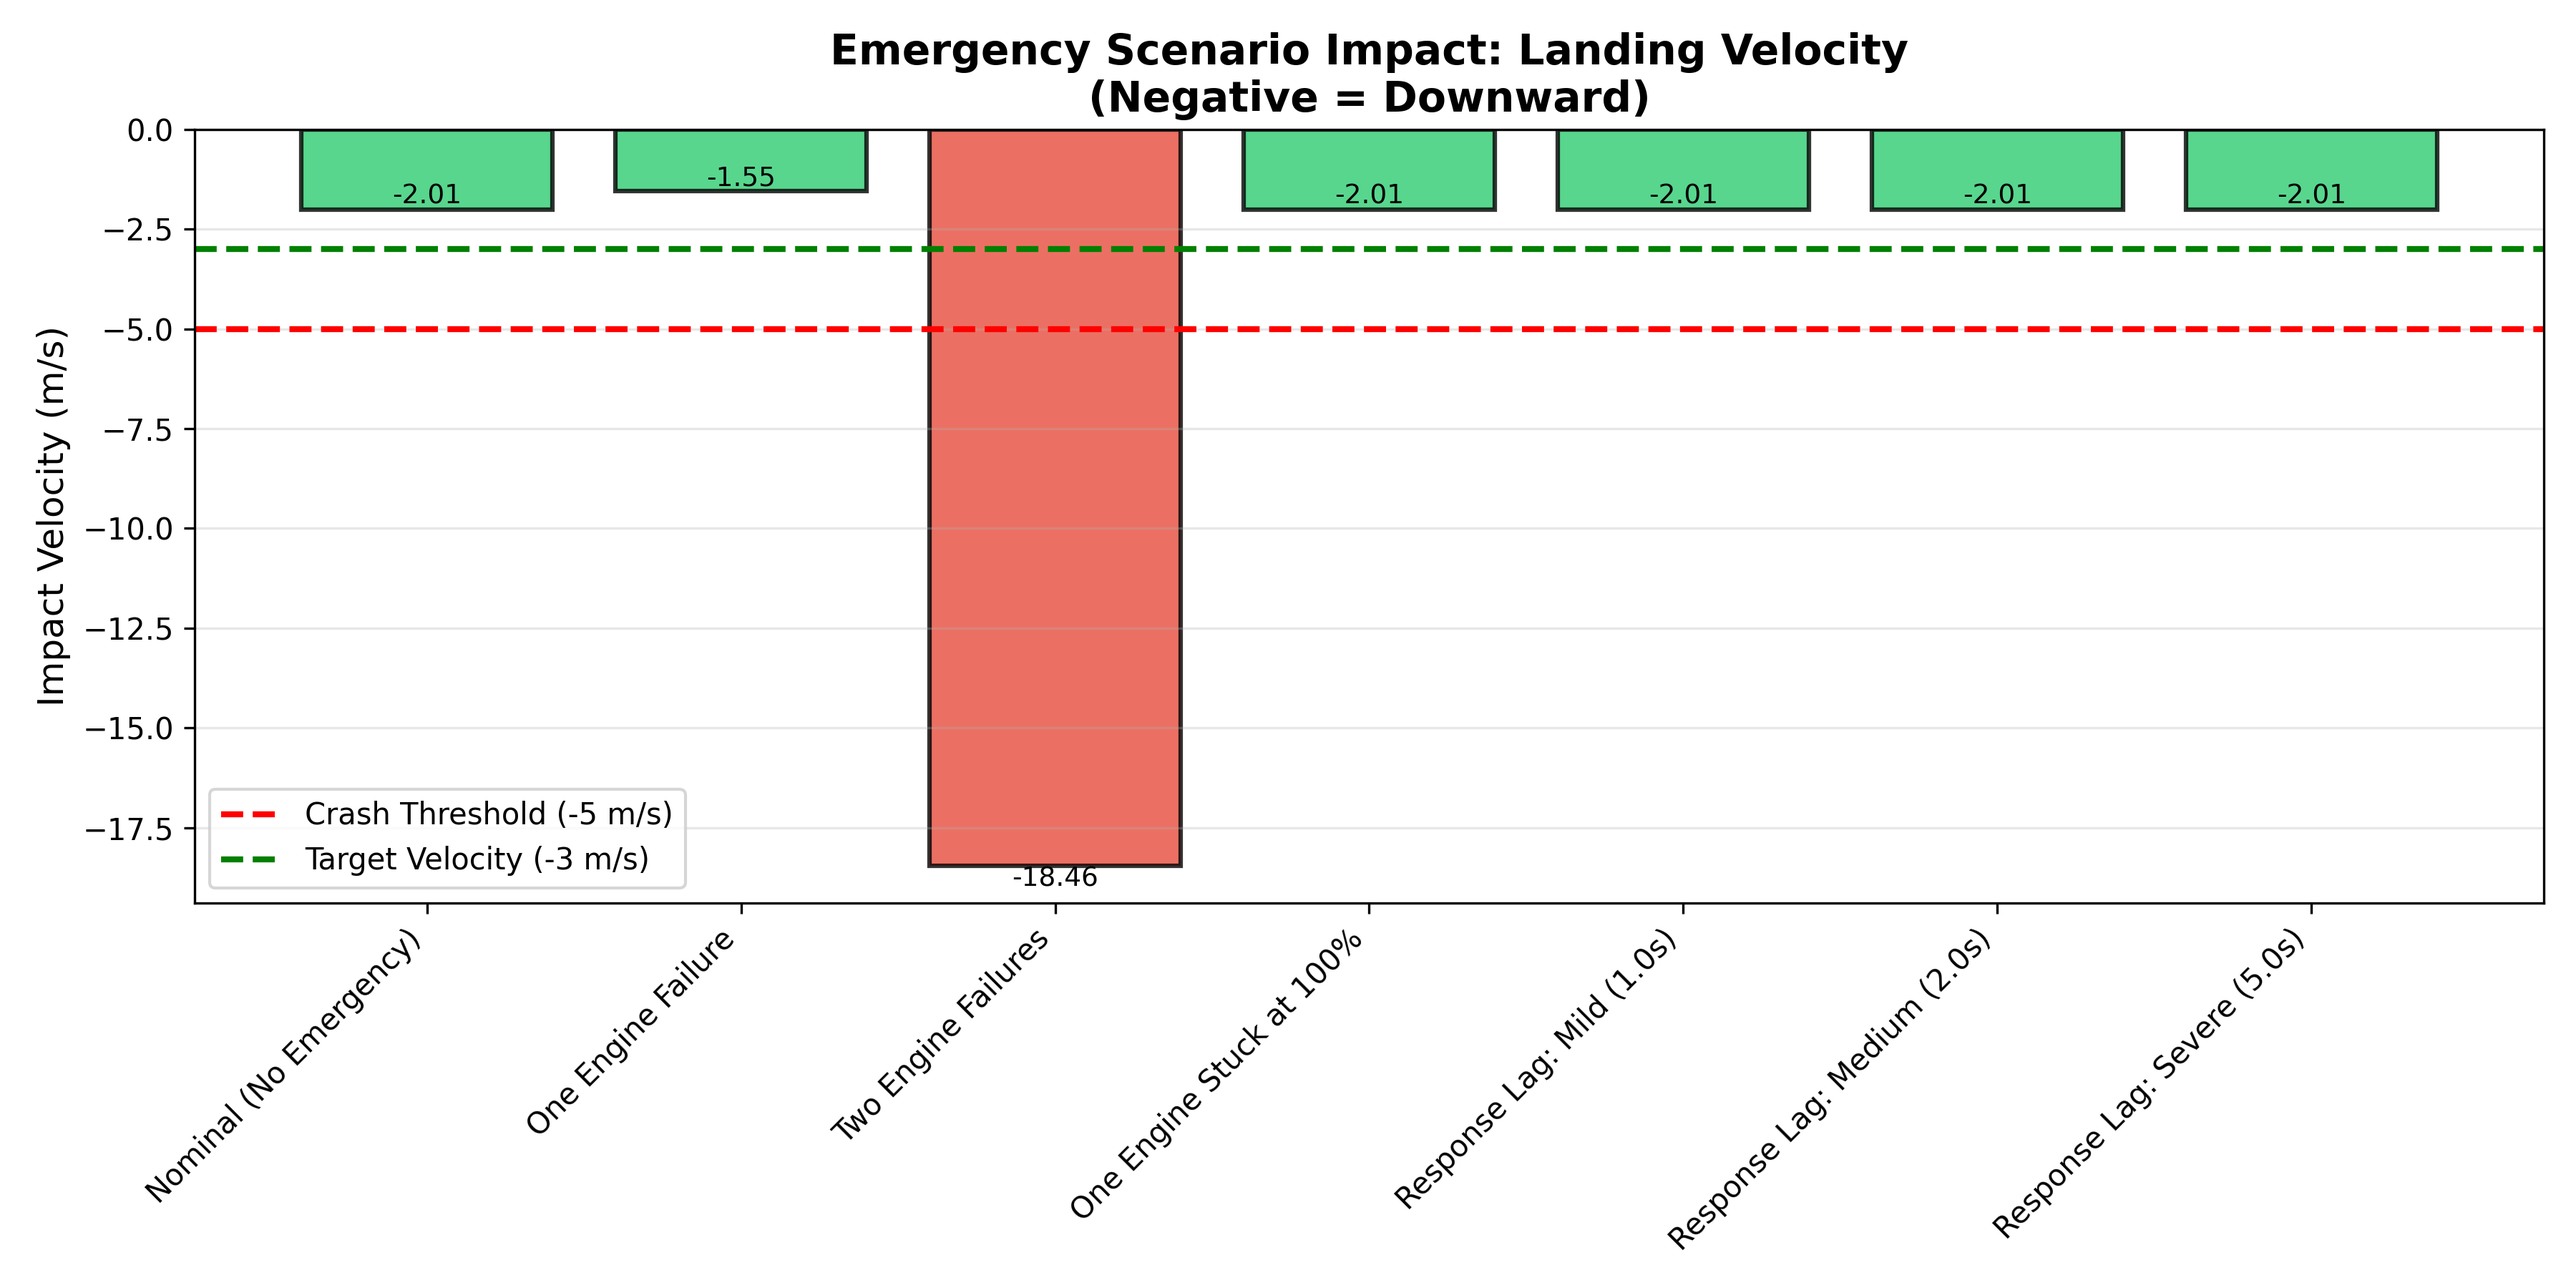
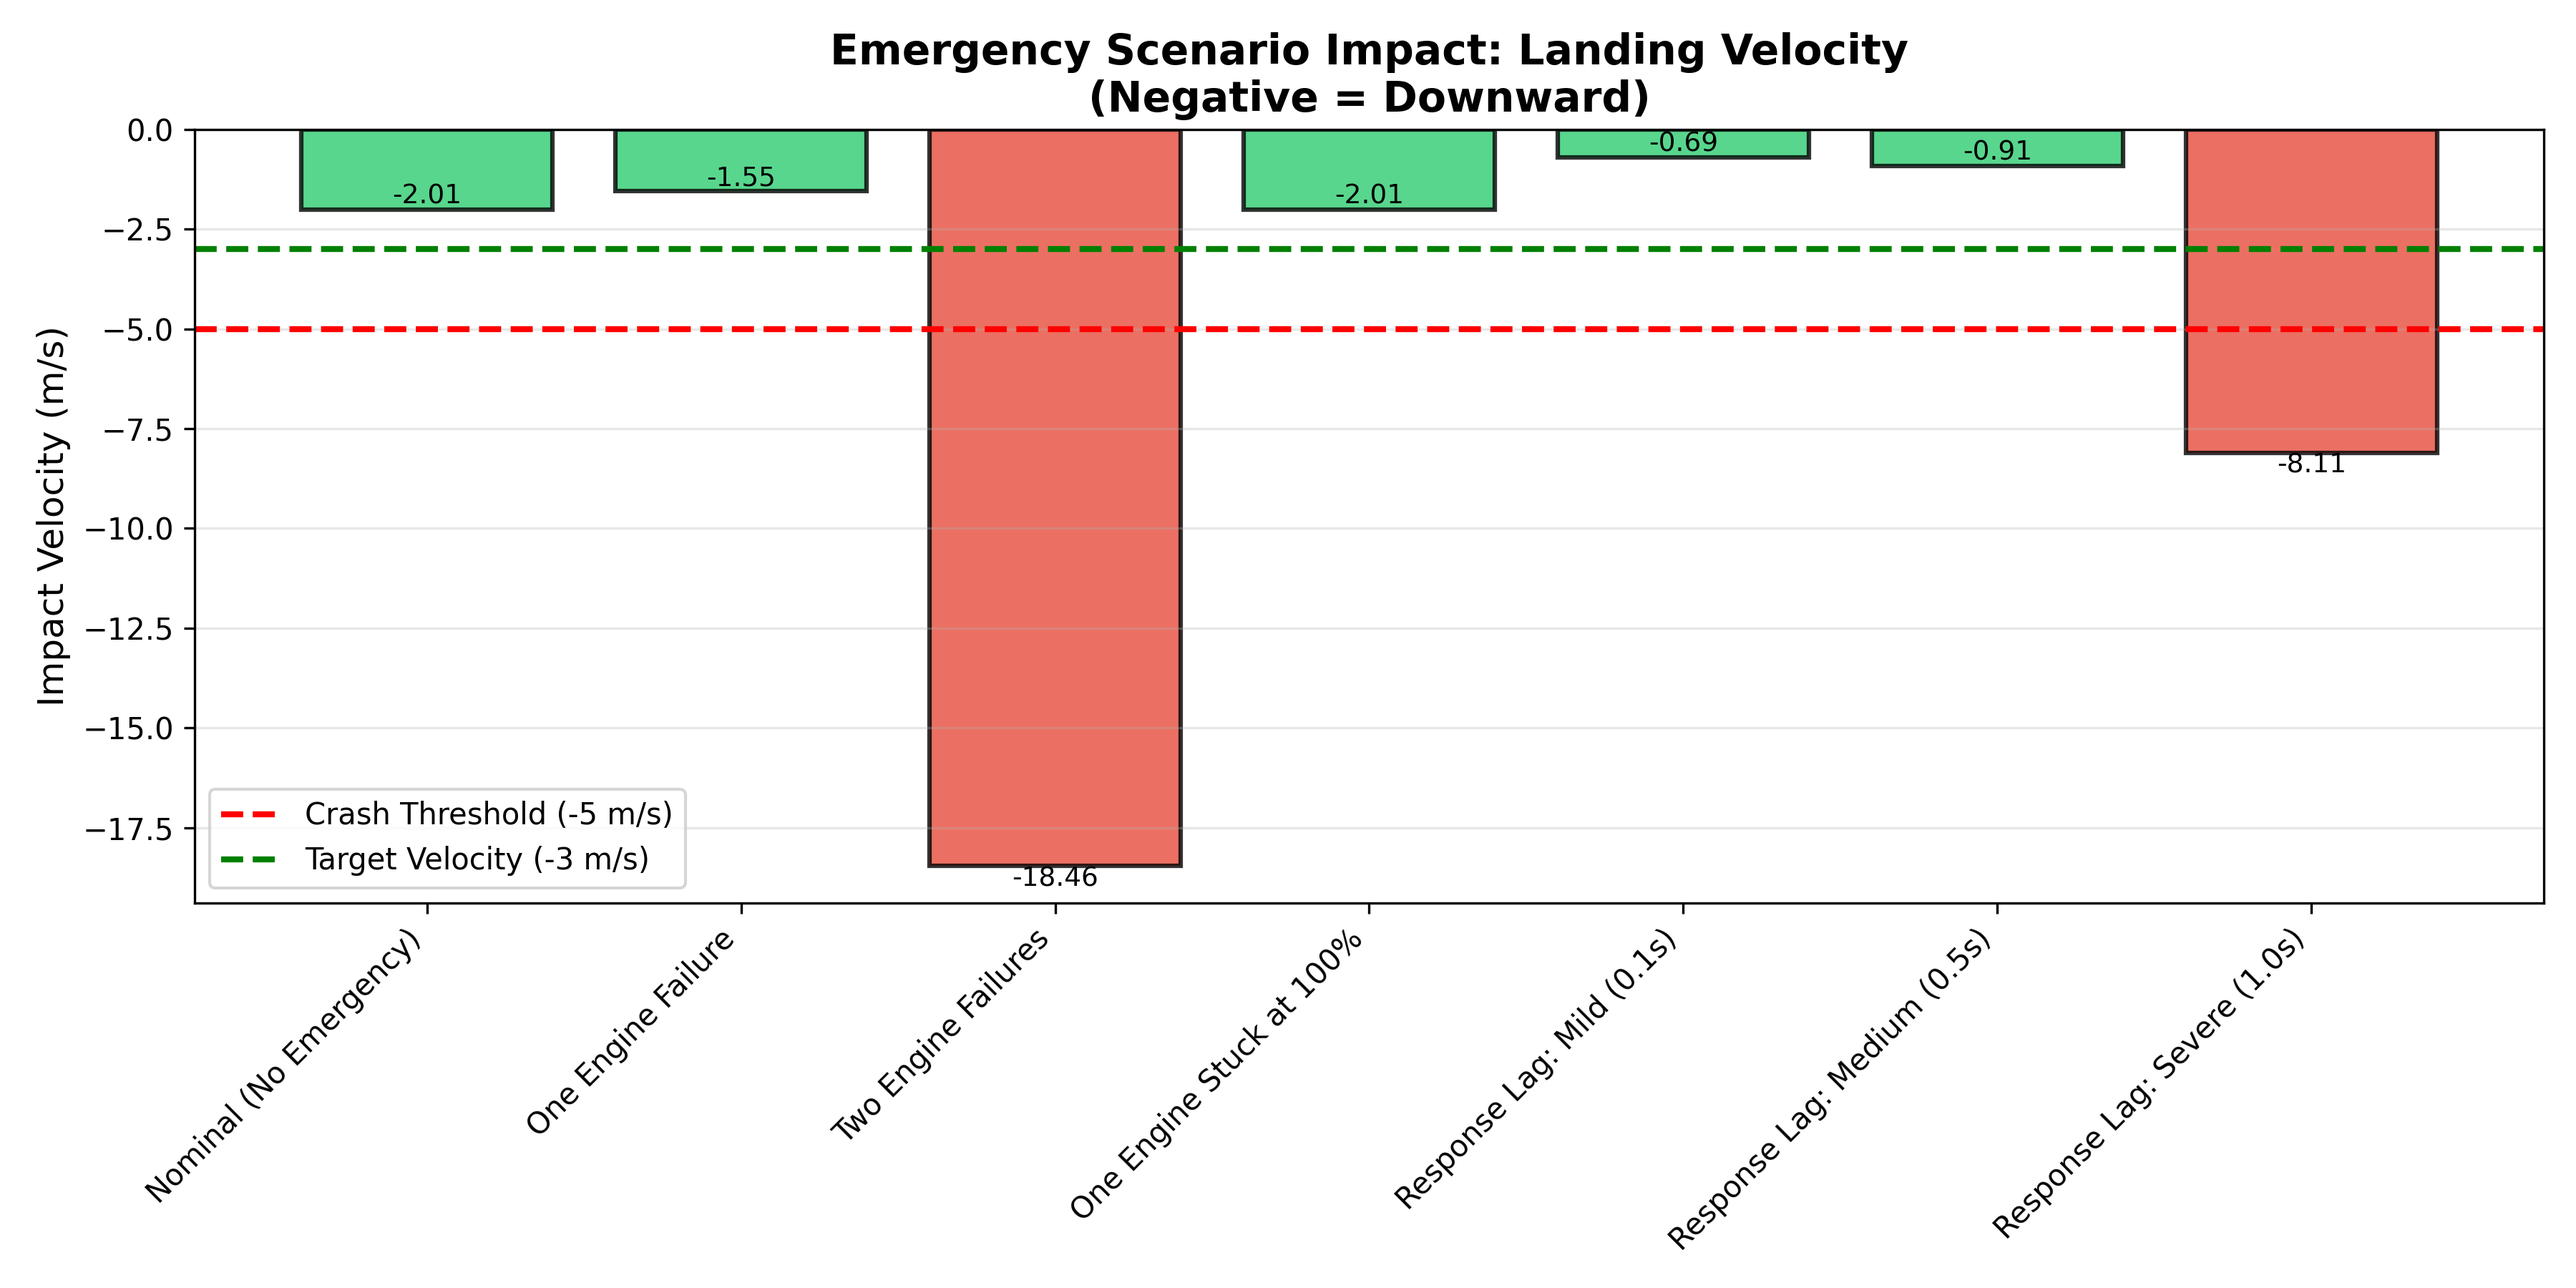
Responce lag physics fix

Changed region(s): [[0.5911, 0.0933, 0.9644, 0.3733], [0.6222, 0.7467, 0.6533, 0.7778]]

diff --git a/core/emergencies/EmergencyScenarioHandler.py b/core/emergencies/EmergencyScenarioHandler.py
@@ -58,7 +58,8 @@ class EmergencyScenarioHandler:
         Args:
             dt: Time step (s)
         """
-        self.update_time(dt)
+        # NOTE: Time is already updated in Simulator.step() before this is called
+        # Do NOT call update_time() here as it would double-increment
         
         if self.scenario_type == "engine_stuck":
             # Keep one engine at 100% throttle
@@ -90,35 +91,34 @@ class EmergencyScenarioHandler:
             Actual throttle to apply (may be delayed)
         """
         if self.scenario_type == "response_lag" and self.response_lag_delay > 0:
-            # Store command with timestamp
+            # Store command with its issue timestamp
             if engine_index not in self.throttle_history:
                 self.throttle_history[engine_index] = deque()
             
-            # Add new command with future timestamp
-            self.throttle_history[engine_index].append((self.time + self.response_lag_delay, desired_throttle))
+            # Add new command with its issue time
+            self.throttle_history[engine_index].append((self.time, desired_throttle))
             
-            # Keep only recent commands (cleanup old ones)
-            while len(self.throttle_history[engine_index]) > 100:
-                self.throttle_history[engine_index].popleft()
+            # Keep only recent commands (cleanup very old ones)
+            cutoff_time = self.time - self.response_lag_delay - 1.0  # Some buffer
+            while len(self.throttle_history[engine_index]) > 0:
+                oldest_time, _ = self.throttle_history[engine_index][0]
+                if oldest_time < cutoff_time:
+                    self.throttle_history[engine_index].popleft()
+                else:
+                    break
             
-            # Find the throttle that should be applied now
-            # Look for the most recent command that has expired
-            current_throttle = self.lander.engines[engine_index].throttle  # Default to current
-            actual_throttle = current_throttle
+            # Find the most recent command whose delay has been satisfied
+            actual_throttle = 0.0  # Default: no thrust during lag
             
-            # Process commands in order, applying the most recent expired one
-            expired_commands = []
-            for cmd_time, cmd_throttle in list(self.throttle_history[engine_index]):
-                if cmd_time <= self.time:
-                    expired_commands.append((cmd_time, cmd_throttle))
-            
-            if expired_commands:
-                # Use the most recent expired command
-                _, actual_throttle = max(expired_commands, key=lambda x: x[0])
-            
-            # If this is the very first command and delay hasn't passed, start at 0
-            if self.time < self.response_lag_delay and len(self.throttle_history[engine_index]) == 1:
-                actual_throttle = 0.0
+            # Iterate through commands from oldest to newest
+            for cmd_issue_time, cmd_throttle in list(self.throttle_history[engine_index]):
+                time_since_issue = self.time - cmd_issue_time
+                if time_since_issue >= self.response_lag_delay:
+                    # This command's delay has passed - it's a candidate
+                    # Keep updating to the most recent one
+                    actual_throttle = cmd_throttle
+                # If we haven't reached the delay yet for a command, stop checking newer ones
+                # (they definitely won't have their delays satisfied either)
             
             return actual_throttle
         

diff --git a/core/ThrustManager.py b/core/ThrustManager.py
@@ -38,8 +38,8 @@ class ThrustManager:
         # Allocate per-engine thrust magnitudes
         applied_thrusts = self.thrust_allocator.allocate(desired_force_vec, desired_torque)
         
-        # Update engine throttles
-        self._update_throttles_from_thrusts(applied_thrusts)
+        # Update engine throttles and get actual thrusts after applying emergency effects
+        applied_thrusts = self._update_throttles_from_thrusts(applied_thrusts)
         
         return applied_thrusts
     
@@ -81,7 +81,20 @@ class ThrustManager:
         return applied_thrusts
     
     def _update_throttles_from_thrusts(self, thrusts: np.ndarray):
-        """Update engine throttles based on allocated thrust values."""
+        """
+        Update engine throttles based on allocated thrust values.
+        
+        Applies emergency scenario modifications (e.g., response lag) and returns
+        the actual thrusts that result from the constrained throttles.
+        
+        Args:
+            thrusts: Desired thrust values for each engine
+            
+        Returns:
+            Actual thrust values (N) after applying any delays/constraints
+        """
+        actual_thrusts = np.zeros(len(self.lander.engines), dtype=float)
+        
         for i, engine in enumerate(self.lander.engines):
             max_thrust = float(getattr(engine, "max_thrust", 0.0))
             if getattr(engine, "enabled", True) and max_thrust > 0.0:
@@ -92,8 +105,13 @@ class ThrustManager:
                 else:
                     actual_throttle = desired_throttle
                 engine.throttle = actual_throttle
+                # Calculate the actual thrust based on delayed throttle
+                actual_thrusts[i] = actual_throttle * max_thrust
             else:
                 engine.throttle = 0.0
+                actual_thrusts[i] = 0.0
+        
+        return actual_thrusts
     
     def refresh_allocator(self):
         """Refresh allocator when engine configuration changes."""

diff --git a/experiments/emergency_scenario_experiment.py b/experiments/emergency_scenario_experiment.py
@@ -56,17 +56,17 @@ class EmergencyScenarioExperiment:
                 "type": "engine_stuck",
                 "params": {"throttle": 1.0}
             },
-            "Response Lag: Mild (1.0s)": {
+            "Response Lag: Mild (0.1s)": {
+                "type": "response_lag",
+                "params": {"delay": 0.1}
+            },
+            "Response Lag: Medium (0.5s)": {
+                "type": "response_lag",
+                "params": {"delay": 0.5}
+            },
+            "Response Lag: Severe (1.0s)": {
                 "type": "response_lag",
                 "params": {"delay": 1.0}
-            },
-            "Response Lag: Medium (2.0s)": {
-                "type": "response_lag",
-                "params": {"delay": 2.0}
-            },
-            "Response Lag: Severe (5.0s)": {
-                "type": "response_lag",
-                "params": {"delay": 5.0}
             }
         }
 

diff --git a/core/emergencies/EmergencyScenarioManager.py b/core/emergencies/EmergencyScenarioManager.py
@@ -20,17 +20,17 @@ class EmergencyScenarioManager:
                 "type": "engine_stuck",
                 "params": {"throttle": 1.0}
             },
-            "Response Lag: Mild (1.0s)": {
+            "Response Lag: Mild (0.1s)": {
+                "type": "response_lag",
+                "params": {"delay": 0.1}
+            },
+            "Response Lag: Medium (0.5s)": {
+                "type": "response_lag",
+                "params": {"delay": 0.5}
+            },
+            "Response Lag: Severe (1.0s)": {
                 "type": "response_lag",
                 "params": {"delay": 1.0}
-            },
-            "Response Lag: Medium (2.0s)": {
-                "type": "response_lag",
-                "params": {"delay": 2.0}
-            },
-            "Response Lag: Severe (5.0s)": {
-                "type": "response_lag",
-                "params": {"delay": 5.0}
             }
         }
 
